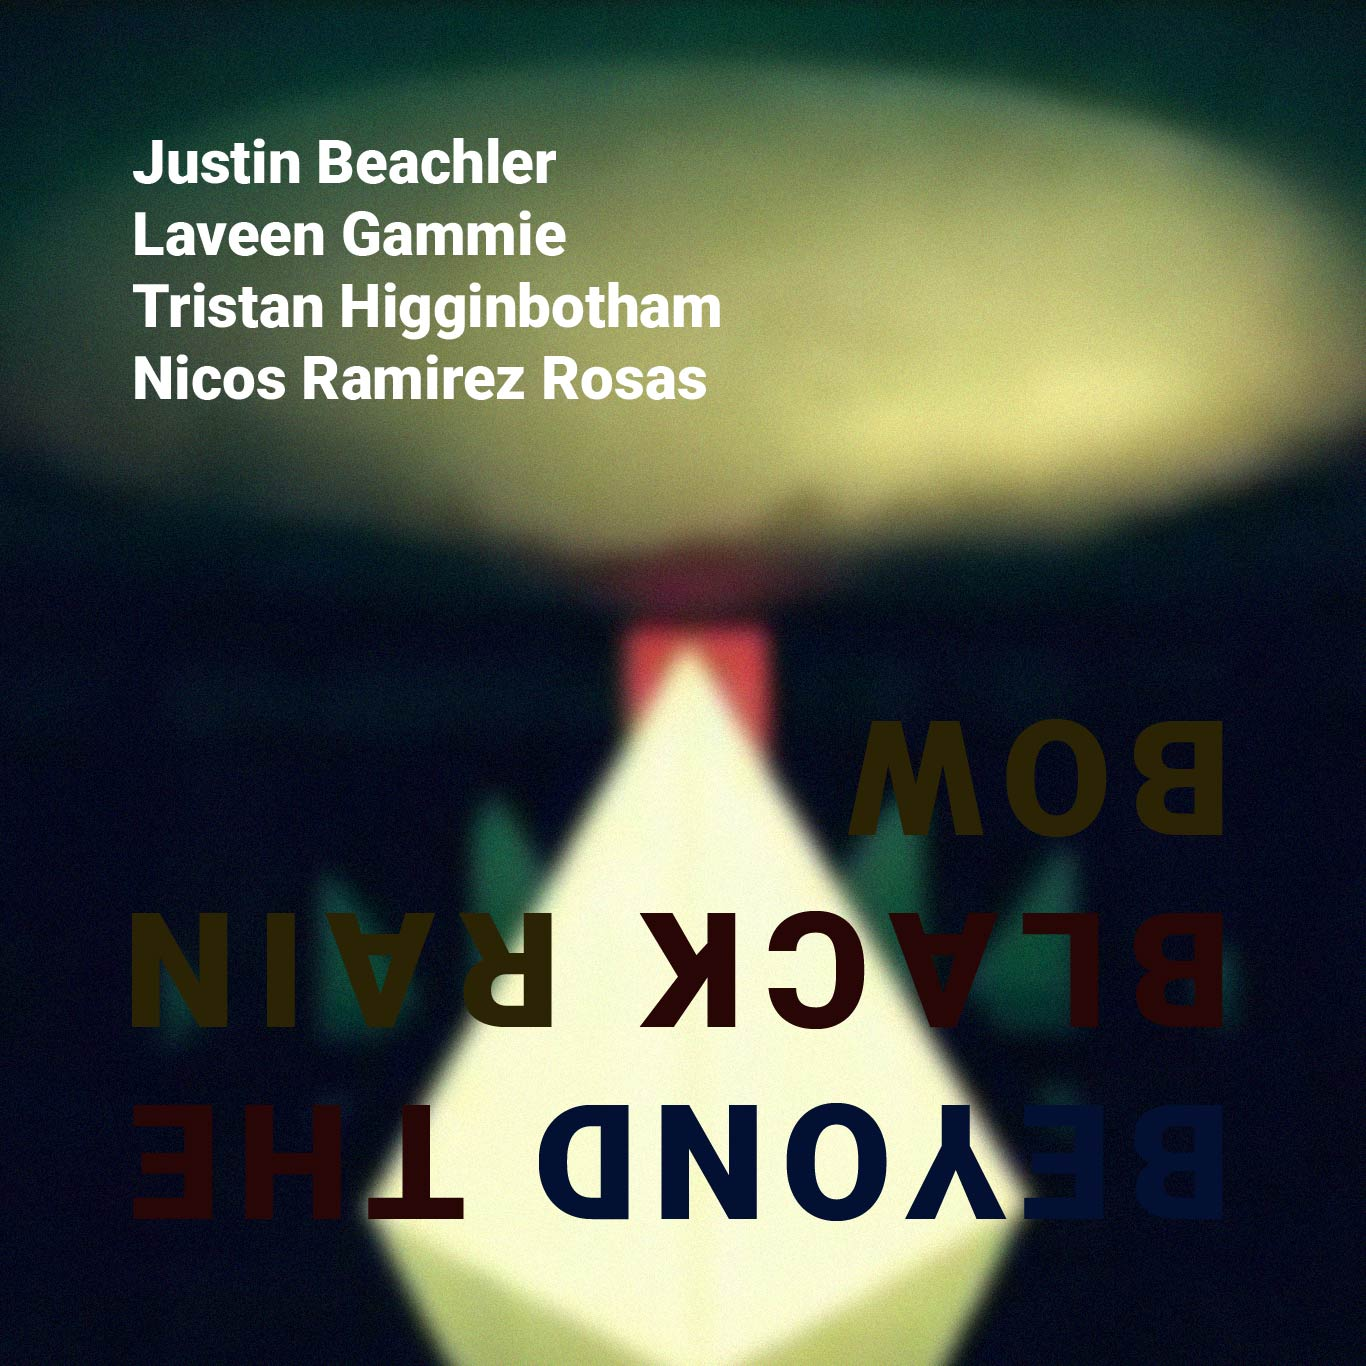
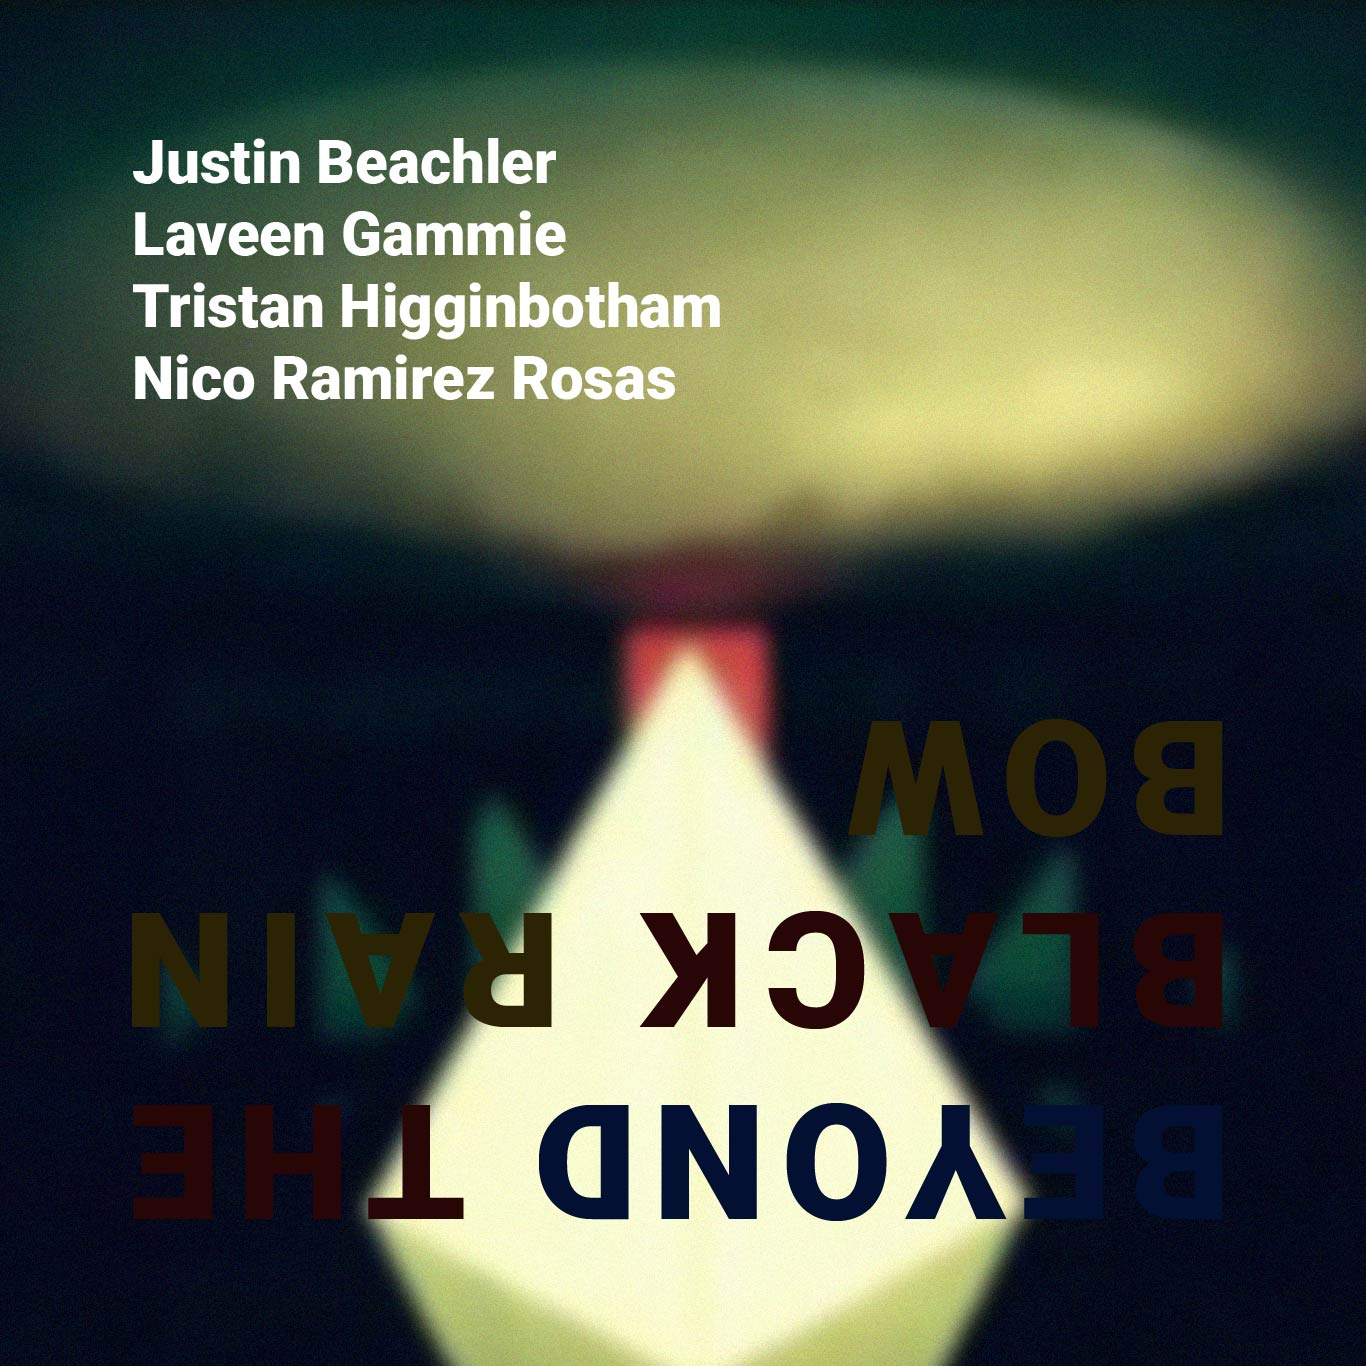
btbr slide updates

Changed region(s): [[0.1845, 0.246, 0.5227, 0.3075]]

diff --git a/src/pages/Exhibitions.vue b/src/pages/Exhibitions.vue
@@ -5,18 +5,18 @@ import { ref } from 'vue';
 <template>
     <div class="container mx-auto py-4 px-3 flex flex-col grow">
         <div class="grid md:grid-cols-4 grid-cols-2 gap-6 mb-6">
-            <div v-if="true===false">
+            <div>
                 <h3 class="font-roboto text-xl mb-3">Current</h3>
-                <router-link :to="{ name: 'africh-signal' }" class="no-underline text-2xl mt-8">
+                <router-link :to="{ name: 'beyond-the-black-rainbow' }" class="no-underline text-2xl mt-8">
                     <img
-                        v-lazy="{ src: '/images/signal/africh-signal-square-nomark.jpg' }"
+                        v-lazy="{ src: '/images/beyond-the-black-rainbow/btbr-square.jpg' }"
                         class="lazy-image max-w-full w-auto h-auto mx-auto"
                         style="max-height: calc(100vh - 200px)"
-                        alt="Noelle Africh: Signal. April 4th - May 23rd, 2026"
+                        alt="Beyond the Black Rainbow: Justin Beachler, Laveen Gammie, Tristan Higginbotham, Nico Ramirez Rosas. June 6th - July 25th, 2026"
                     />
                 </router-link>
             </div>
-            <div>
+            <div v-if="true===false">
                 <h3 class="font-roboto text-xl mb-3">Upcoming</h3>
                 <router-link :to="{ name: 'beyond-the-black-rainbow' }" class="no-underline text-2xl mt-8">
                     <img

diff --git a/src/pages/Home.vue b/src/pages/Home.vue
@@ -30,7 +30,7 @@ export default {
                     class="md:hidden home-bg object-cover w-full h-full"
                 />
             </div>
-            <div class="relative z-10 container mx-auto text-sm py-8 mb-6 px-3 flex flex-col grow">
+            <div class="relative z-10 container mx-auto text-sm py-8 mb-4 px-3 flex flex-col grow">
                 <div
                     class="mt-auto flex w-full md:flex-row flex-col md:gap-6 md:justify-between text-black !hover:text-black"
                 >
